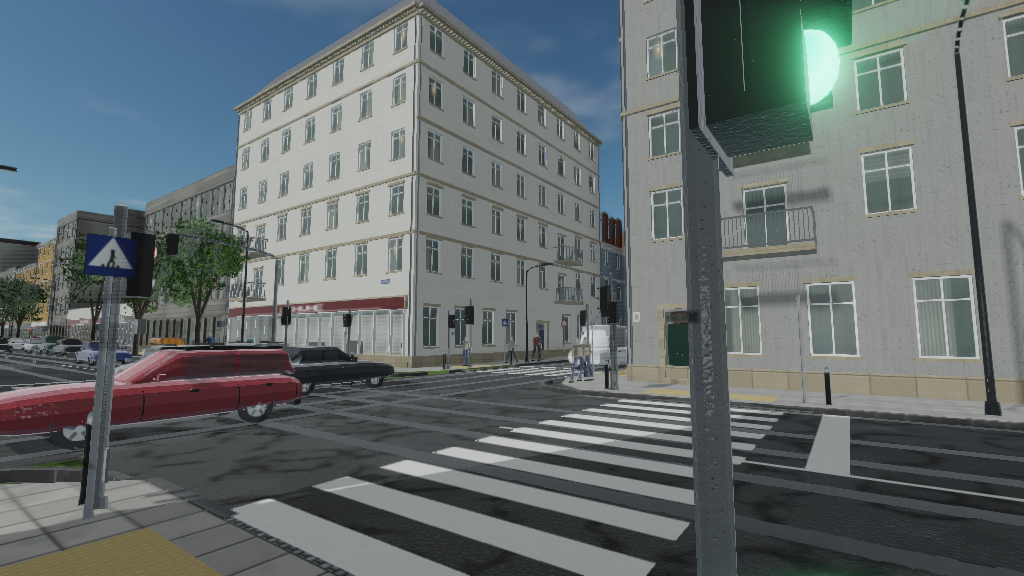
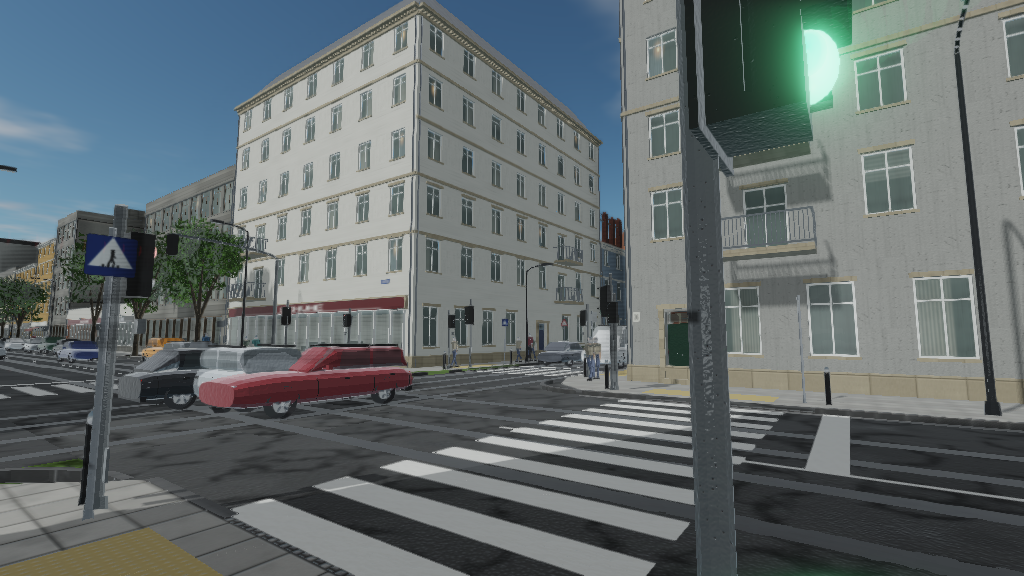
test: image-based screenshot regression
`--capture` already rendered every named viewpoint. This adds the other
half: `compare-images` and `scripts/check-screenshots.sh`, which render
the set and compare it with the one committed under docs/screenshots.

A capture now advances the clock by a fixed step rather than by however
long the last frame took. Without that the sky's clouds and the traffic
are wherever wall-clock time left them, and two runs of an unchanged
build differed in a quarter of the pixels of a view of the sky -- which
makes the comparison meaningless. They are bit-identical now.

The comparison is deliberately tolerant: 2 % of pixels may differ by more
than 8/255. A driver update or an anti-aliasing decision moves individual
pixels without changing the picture, and an image test that fails on
those is an image test somebody turns off.

Also here, from running the presets end to end: the settings file is now
read *before* the command line rather than after, so a settings document
no longer silently overrides every flag -- `--preset low` ran at high
quality with nothing on screen to say why. And `low` asked for one shadow
cascade, which CascadedShadowMap refuses; it asks for two now, and the
renderer catches the refusal and loses shadows rather than the street.

diff --git a/tools/compare/CompareImages.cpp b/tools/compare/CompareImages.cpp
@@ -1,0 +1,150 @@
+// SPDX-License-Identifier: MIT
+//
+// Compares two PNGs and says how different they are.
+//
+// The other half of `cna-street --capture`. The viewpoints are fixed, the scene
+// comes from a seed, and the capture writes the same frames every time, so a
+// change to a generator or a shader shows up as a difference in a known image
+// rather than as something somebody notices six commits later.
+//
+// The comparison is deliberately tolerant of the differences that do not
+// matter. A GPU driver, a Mesa version and an anti-aliasing decision all move
+// individual pixels by a few units without changing the picture, so the test is
+// the *fraction of pixels that differ noticeably*, not exact equality: an image
+// regression test that fails on a driver update is an image regression test
+// somebody turns off.
+
+#include <algorithm>
+#include <cmath>
+#include <cstdio>
+#include <cstdlib>
+#include <cstring>
+#include <string>
+#include <vector>
+
+// stb_image expects the C library to have been included already, and in a C++
+// translation unit the <cstring> names live in std:: unless they are pulled in
+// first. Including it after the standard headers is not a style choice.
+#define STB_IMAGE_IMPLEMENTATION
+#define STBI_ONLY_PNG
+#include "stb_image.h"
+
+namespace {
+
+struct Loaded
+{
+    int width = 0;
+    int height = 0;
+    unsigned char* pixels = nullptr;
+
+    ~Loaded() { if (pixels != nullptr) stbi_image_free(pixels); }
+};
+
+bool Load(const char* path, Loaded& out)
+{
+    int channels = 0;
+    out.pixels = stbi_load(path, &out.width, &out.height, &channels, 4);
+    if (out.pixels == nullptr)
+    {
+        std::fprintf(stderr, "compare-images: could not read '%s': %s\n", path,
+                     stbi_failure_reason());
+        return false;
+    }
+    return true;
+}
+
+}  // namespace
+
+int main(int argc, char** argv)
+{
+    std::string reference, candidate;
+    // A pixel counts as changed when any channel moves by more than this. Eight
+    // of 255 is about the point at which a difference stops being dithering.
+    int channelThreshold = 8;
+    // And the images differ when more than this fraction of them changed.
+    double tolerance = 0.02;
+    bool quiet = false;
+
+    for (int i = 1; i < argc; ++i)
+    {
+        const std::string arg = argv[i];
+        auto value = [&](const char* what) -> const char* {
+            if (i + 1 >= argc)
+            {
+                std::fprintf(stderr, "compare-images: %s needs a value\n", what);
+                std::exit(2);
+            }
+            return argv[++i];
+        };
+        if (arg == "--tolerance") tolerance = std::atof(value("--tolerance"));
+        else if (arg == "--channel-threshold") channelThreshold = std::atoi(value("--channel-threshold"));
+        else if (arg == "--quiet") quiet = true;
+        else if (arg == "--help" || arg == "-h")
+        {
+            std::printf(
+                "compare-images <reference.png> <candidate.png> [options]\n\n"
+                "Exits 0 when the two images match within tolerance, 1 when they do not,\n"
+                "and 2 when it could not compare them at all.\n\n"
+                "  --tolerance <f>           fraction of pixels allowed to differ (default 0.02)\n"
+                "  --channel-threshold <n>   per-channel difference that counts (default 8)\n"
+                "  --quiet                   print nothing when the images match\n");
+            return 0;
+        }
+        else if (reference.empty()) reference = arg;
+        else if (candidate.empty()) candidate = arg;
+        else
+        {
+            std::fprintf(stderr, "compare-images: unexpected argument '%s'\n", arg.c_str());
+            return 2;
+        }
+    }
+
+    if (reference.empty() || candidate.empty())
+    {
+        std::fprintf(stderr, "compare-images: two image paths are required (try --help)\n");
+        return 2;
+    }
+
+    Loaded a, b;
+    if (!Load(reference.c_str(), a) || !Load(candidate.c_str(), b)) return 2;
+    if (a.width != b.width || a.height != b.height)
+    {
+        std::fprintf(stderr, "compare-images: %dx%d and %dx%d are different sizes\n", a.width,
+                     a.height, b.width, b.height);
+        return 2;
+    }
+
+    const std::size_t pixels = static_cast<std::size_t>(a.width) * a.height;
+    std::size_t changed = 0;
+    std::size_t worstAt = 0;
+    int worst = 0;
+    double total = 0.0;
+
+    for (std::size_t i = 0; i < pixels; ++i)
+    {
+        int biggest = 0;
+        for (int c = 0; c < 3; ++c)
+        {
+            const int delta = std::abs(static_cast<int>(a.pixels[i * 4 + static_cast<std::size_t>(c)])
+                                       - static_cast<int>(b.pixels[i * 4 + static_cast<std::size_t>(c)]));
+            biggest = std::max(biggest, delta);
+            total += delta;
+        }
+        if (biggest > channelThreshold) ++changed;
+        if (biggest > worst) { worst = biggest; worstAt = i; }
+    }
+
+    const double fraction = static_cast<double>(changed) / static_cast<double>(pixels);
+    const double mean = total / (static_cast<double>(pixels) * 3.0);
+    const bool matches = fraction <= tolerance;
+
+    if (!matches || !quiet)
+    {
+        std::printf("%s %s: %.3f%% of pixels differ (mean %.2f, worst %d at %zu,%zu) -- %s\n",
+                    matches ? "OK  " : "FAIL", candidate.c_str(), fraction * 100.0, mean, worst,
+                    worstAt % static_cast<std::size_t>(a.width),
+                    worstAt / static_cast<std::size_t>(a.width),
+                    matches ? "within tolerance" : "TOO DIFFERENT");
+    }
+    return matches ? 0 : 1;
+}

diff --git a/street/src/StreetApplication.cpp b/street/src/StreetApplication.cpp
@@ -76,6 +76,14 @@ bool StreetApplication::configure(int argc, char** argv)
         return (i + 1 < argc) ? argv[++i] : nullptr;
     };
 
+    // The settings file is read *before* the options, not after, so that the
+    // command line wins. It used to be loaded at the end, which meant a settings
+    // document silently overrode every flag on the command line -- `--preset low`
+    // ran at high quality and there was nothing on screen to say why.
+    for (int i = 1; i + 1 < argc; ++i)
+        if (std::string(argv[i]) == "--settings") settingsPath_ = argv[i + 1];
+    loadSettingsFile();
+
     for (int i = 1; i < argc; ++i)
     {
         const std::string arg = argv[i];
@@ -175,7 +183,6 @@ bool StreetApplication::configure(int argc, char** argv)
         }
         else if (arg == "--dump-settings")
         {
-            loadSettingsFile();
             std::fputs(settings_.toJson().c_str(), stdout);
             return false;
         }
@@ -186,7 +193,6 @@ bool StreetApplication::configure(int argc, char** argv)
         }
     }
 
-    loadSettingsFile();
     if (!captureDirectory_.empty())
     {
         // A capture run has no user to look at an overlay, and the overlay would
@@ -366,8 +372,18 @@ void StreetApplication::Update(GameTime& gameTime)
 {
     Game::Update(gameTime);
 
-    const float dt = static_cast<float>(
-        gameTime.getElapsedGameTimeProperty().getTotalSecondsProperty());
+    // A capture or a one-shot screenshot advances the clock by a fixed step
+    // rather than by however long the last frame took. Without it the sky's
+    // clouds and the traffic are wherever wall-clock time left them, two runs of
+    // --capture produce two different pictures, and the screenshot comparison
+    // that scripts/check-screenshots.sh is built on means nothing: a quarter of
+    // the pixels in a view of the sky differed between runs of an unchanged
+    // build.
+    const bool deterministic = !captureDirectory_.empty() || !screenshotPath_.empty();
+    const float dt = deterministic
+                         ? 1.0f / 60.0f
+                         : static_cast<float>(
+                               gameTime.getElapsedGameTimeProperty().getTotalSecondsProperty());
     elapsedSeconds_ += dt;
 
     const KeyboardState keyboard = Keyboard::GetState();

diff --git a/street/src/Render/SceneRenderer.cpp b/street/src/Render/SceneRenderer.cpp
@@ -143,10 +143,21 @@ void SceneRenderer::initialise(const RenderSettings& settings)
     {
         if (device_.SupportsShadowSamplingEXT())
         {
-            shadows_ = std::make_unique<CascadedShadowMap>(
-                device_, ToShadowQuality(settings.shadowQuality),
-                std::clamp(settings.shadowCascades, 1, CascadedShadowMap::kMaxCascades));
-            if (!shadows_->isSupported())
+            // Two is the floor, not one: CascadedShadowMap requires 2..4 and
+            // throws otherwise, and a settings file asking for one cascade
+            // should cost a cascade rather than the whole street.
+            try
+            {
+                shadows_ = std::make_unique<CascadedShadowMap>(
+                    device_, ToShadowQuality(settings.shadowQuality),
+                    std::clamp(settings.shadowCascades, 2, CascadedShadowMap::kMaxCascades));
+            }
+            catch (const std::exception& failure)
+            {
+                limitations_.emplace_back(std::string("no shadow map: ") + failure.what());
+                shadows_.reset();
+            }
+            if (shadows_ != nullptr && !shadows_->isSupported())
             {
                 limitations_.emplace_back("cascaded shadow maps are unavailable on this renderer");
                 shadows_.reset();

diff --git a/street/src/Render/RenderSettings.cpp b/street/src/Render/RenderSettings.cpp
@@ -39,9 +39,10 @@ void RenderSettings::applyPreset(QualityPreset preset)
         case QualityPreset::Low:
             // Everything a software rasteriser or an old integrated GPU can
             // still run at an interactive rate. Shadows survive -- a street
-            // without them stops being a street -- but at one coarse cascade.
+            // without them stops being a street -- but at two coarse cascades,
+            // which is the fewest CascadedShadowMap accepts.
             multiSample = 0;   renderScale = 0.72f;
-            shadows = true;    shadowCascades = 1;  shadowQuality = 0;
+            shadows = true;    shadowCascades = 2;  shadowQuality = 0;
             shadowDistance = 70.0f;  propShadowDistance = 34.0f;
             hdr = false;  bloom = false;  ssao = false;  fxaa = false;
             heightFog = true;  lightShafts = false;  ssr = false;  depthOfField = false;

diff --git a/README.md b/README.md
@@ -192,6 +192,11 @@ The command line, in full, is `--help`. The ones that matter:
 | `--dump-settings` | Print the effective settings as JSON and exit |
 | `--dump-shadow <file.png>` | Write the cascade atlas, which is the only way to tell an empty shadow map from a misplaced one |
 
+A capture or a one-shot screenshot runs the clock at a fixed step, so the frames
+it writes depend only on the seed and the frame count. That is what makes
+`scripts/check-screenshots.sh` a regression test rather than a diff of two
+different moments.
+
 ## Controls
 
 | | |
@@ -427,6 +432,25 @@ review.
 
 Two of them found live bugs on their first run.
 
+### Screenshot regression
+
+```sh
+./scripts/check-screenshots.sh
+```
+
+Renders every named viewpoint and compares it with the committed set in
+`docs/screenshots`. The scene comes from a seed, the viewpoints are fixed, and a
+capture advances the clock by a fixed step rather than by however long the last
+frame took, so two runs of an unchanged build are **bit-identical** — the sky's
+clouds and the traffic are where the frame count puts them, not where wall-clock
+time left them.
+
+The comparison is tolerant on purpose: it allows 2 % of pixels to differ by more
+than 8/255, because a driver update or an anti-aliasing decision moves
+individual pixels without changing the picture, and an image test that fails on
+those is an image test somebody turns off. `TOLERANCE`, `WIDTH`, `HEIGHT`,
+`BUILD_DIR` and `REFERENCE_DIR` are environment overrides.
+
 ## Performance
 
 The numbers below are from `--preset high` at 1280×720 on **Mesa llvmpipe** —
@@ -488,6 +512,8 @@ dependencies.lock           the upstream revisions this is verified against
 scripts/fetch-dependencies.sh
 street/                     the application and its static library
 tools/bake/                 the offline surface baker
+tools/compare/              the screenshot comparator
+scripts/check-screenshots.sh
 tests/                      the unit tests
 assets/config/render.json   a settings document
 assets/ATTRIBUTION.md       where the assets come from
